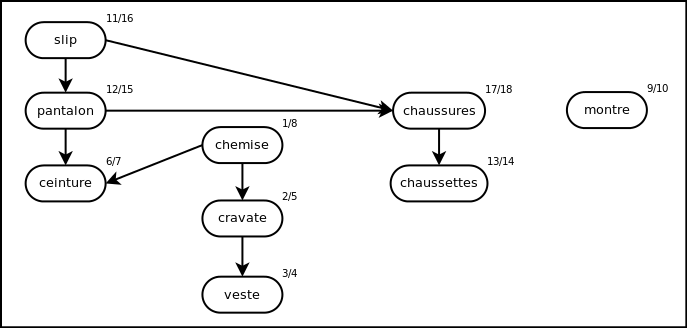
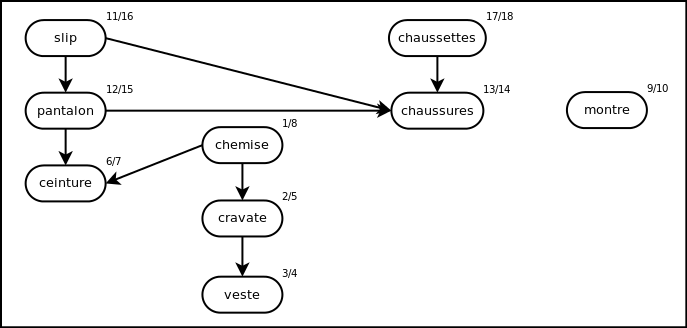
Fix topological sort graph and other typos. Added skeleton templates for datastore pics, shortest path and cypher/gremlin definition

diff --git a/prez/index.html b/prez/index.html
@@ -28,6 +28,11 @@
 	<!-- Transition theme. More available in /themes/transition/ or create your own. -->
 	<link rel="stylesheet" href="css/transition/horizontal-slide.css">
 	<link rel="stylesheet" href="extensions/codemirror/themes/default.css"/>
+
+	<style>
+		dt { font-size:18pt !important; margin:10px 0 !important;}
+		dd { font-style:italic; text-indent:30px; margin-bottom:15px !important;}
+	</style>
 </head>
 <body class="deck-container">
 
@@ -60,12 +65,17 @@
 	</section>
 
 	<section class="slide" id="minute-pub-lt">
-		<h2>Et Lateral Thought ?</h2>
+		<h2>Et Lateral Thoughts ?</h2>
 		<div style="overflow:auto;">
 			<img style="display:block; float:left;" src="img/lt-logo.png" />
-			<p style="width:50%; float:left; margin-left:40px; line-height:42px;">Société d'informatique composée de développeurs passionnés qui apportent leur expertise à tous ceux qui le souhaite :)</p>
+			<p style="width:50%; float:left; margin-left:40px; line-height:42px;">Société d'informatique composée de développeurs passionnés qui apportent leur expertise à tous ceux qui le souhaitent :)</p>
 		</div>
-		<p>* Innovante dans le sens ou la société est composée uniquement de développeurs et que ... ça marche très bien comme ça.</p>
+		<h3>En quelques mots</h3>
+		<ul>
+			<li>Innovante : la société est composée uniquement de développeurs</li>
+			<li>Transparente : chacun a le même poids de décision et accès aux mêmes informations</li>
+			<li>Fun : projets communs, time-off ...</li>
+		</ul>
 	</section>
 
 	<section class="slide" id="plan">
@@ -81,7 +91,7 @@
 				<h3>Neo4J</h3>
 			</li>
 			<li>
-				<h3>Utilisation sur l'existant</h3>
+				<h3>Cohabitation avec l'existant</h3>
 			</li>
 		</ol>
 	</section>
@@ -92,12 +102,12 @@
 
 	<section class="slide" id="nosql-wut">
 		<h2>NOSQL ? ça sonne un peu comme ça...</h2>
-		<img src="img/Web_2.0_Map.svg"/>
+		<img style="border:2px solid black;" src="img/Web_2.0_Map.svg"/>
 	</section>
 
 	<section class="slide" id="nosql-geekandpoke">
 		<h2>...ou comme ça</h2>
-		<img style="height:600px; width:auto;" src="img/geek_and_poke.jpg"/>
+		<img style="height:600px; width:auto; border:2px solid black;" src="img/geek_and_poke.jpg"/>
 	</section>
 
 	<section class="slide" id="nosql-def">
@@ -119,7 +129,7 @@
 		<p>Le modèle relationnel a éte défini par <a href="http://www.seas.upenn.edu/~zives/03f/cis550/codd.pdf">Edgar Codd</a> il y a 40 ans ...</p>
 		<img style="display:block;" src="img/relational.png" />
 		<img style="display:block; border:2px solid black;" src="img/relational_details.png" />
-		<p>... et il domine toujours.</p>
+		<p>... et il domine toujours (ORM mon amour).</p>
 	</section>
 
 	<section class="slide" id="relationnel-gagne">
@@ -133,7 +143,7 @@
 		</ul>
 	</section>
 
-	<section class="slide" id="relationnel-rappels">
+	<section class="slide" id="relationnel-rappels-acid">
 		<h2>ACID ?</h2>
 		<dl>
 			<dt><strong>A</strong>tomicity</dt>
@@ -147,18 +157,18 @@
 		</dl>
 	</section>
 
-	<section class="slide" id="relationnel-rappels">
+	<section class="slide" id="relationnel-rappels-sharding">
 		<h2>Sharding ?</h2>
-		<p>Partitionnement horizontal des données, i.e. par lignes plutôt que par colonne.</p>
-		<p><img src="img/sharding.png"/></p>
+		<p>Partitionnement horizontal des données, i.e. par lignes plutôt que par colonne, sur un critère donné.</p>
+		<p style="margin-top:40px;"><img style="border:2px solid black;" src="img/sharding.png"/></p>
 	</section>
 
-	<section class="slide" id="relationnel-rappels">
+	<section class="slide" id="relationnel-rappels-cap">
 		<h2>Théorème de CAP ?</h2>
-		<img style="height:600px; width:auto;" src="img/cap.jpg"/>
+		<img style="height:600px; width:auto; border:2px solid black;" src="img/cap.jpg"/>
 	</section>
 
-	<section class="slide" id="relationnel-gagne">
+	<section class="slide" id="relationnel-gagne-bis">
 		<h2>L'hégémonie relationnelle (on reprend)</h2>
 		<p>... et il a ses limites :</p>
 		<ul>
@@ -170,9 +180,9 @@
 	</section>
 
 	<section class="slide" id="conclusion-relationnel">
-		<h2>Conclusion ?</h2>
-		<p>On a beaucoup progressé pour monter en charge avec nos applications, beaucoup moins avec les systèmes persistant les données qu'elles manipulent !</p> 
-		<p class="small">Indice : on peut faire mieux ;)</p>
+		<h2 style="margin-top:200px; text-align:center;">Conclusion ?</h2>
+		<p>On a beaucoup progressé pour faire monter en charge et répliquer nos applications, beaucoup moins avec les systèmes persistant les données qu'elles manipulent !</p> 
+		<p><strong>Indice : on peut faire mieux ;)</strong></p>
 	</section>
 
 	<section class="slide" id="back-to-the-future">
@@ -182,8 +192,7 @@
 	<section class="slide" id="nosql-type">
 		<h2>La famille NOSQL</h2>
 		<ul style="float:left">
-			<li>
-				Key-Value Store :
+			<li>Key-Value Store :
 				<ul>
 					<li>Redis</li>
 					<li>BerkeleyDB</li>
@@ -202,6 +211,7 @@
 				<ul>
 					<li>Cassandra</li>
 					<li>RIAK</li>
+					<li>BigTable</li>
 				</ul>
 			</li>
 			<li>les versatiles :
@@ -213,6 +223,17 @@
 		</ul>
 		<div style="clear:both">&nbsp;</div>
 		<p>Bien sûr il n'y a ici que les principaux acteurs du genre.</p>
+	</section>
+
+	<section class="slide" id="nosql-tour">
+		<h2>Key/Value</h2>
+		<p>IMG KEY/VALUE</p>
+
+		<h2>Document</h2>
+		<p>IMG DOCUMENT</p>
+
+		<h2>Column</h2>
+		<p>IMG Column</p>
 	</section>
 	
 	<section class="slide" id="nosql-enfin">
@@ -246,7 +267,7 @@
 
 	<section class="slide" id="nosql-avenir">
 		<h2>Et si on s'orientait vers ça ?</h2>
-		<img src="img/polyglot_bdd.png"/>
+		<img style="display:block; margin-top:80px;" src="img/polyglot_bdd.png"/>
 	</section>
 
 	<section class="slide" id="les-graphes">
@@ -255,7 +276,7 @@
 
 	<section class="slide" id="graphe-minimal">
 		<h2>Le graphe le plus simple du monde</h2>
-		<img src="img/simplest_graph.png"/>
+		<img style="display:block; margin-top:80px;" src="img/simplest_graph.png"/>
 	</section>
 
 	<section class="slide" id="graphe-avec-relations">
@@ -266,20 +287,20 @@
 	<section class="slide" id="representations-de-graphe">
 		<h2>Autres modes de représentations</h2>
 		<p>Sous forme de matrice d'adjacence : </p>
-		<img src="img/matrice_adjacence.jpg"/>
+		<img style="border:2px solid black;" src="img/matrice_adjacence.jpg"/>
 	</section>
 
 	<section class="slide" id="representations-de-graphe2">
 		<h2>Autres modes de représentations</h2>
-		<p>Sous forme de liste d'adjacence : <i>tableau de liste de sommet</i></p>
-		<img src="img/liste_adj.jpg"/>
+		<p>Sous forme de liste d'adjacence : <em>tableau de liste de sommets</em></p>
+		<img style="border:2px solid black;" src="img/liste_adj.jpg"/>
 	</section>
 
 
 	<section class="slide" id="recherche-graphe">
 		<h2>Recherche sur graphe (I/III)</h2>
 		<h3>Breadth-first search</h3>
-		<img style="display:block" src="img/breadth_first_search.gif"/>
+		<img style="display:block; border:2px solid black;" src="img/breadth_first_search.gif" width="400px"/>
 		<p>Propriétés intéressantes:</p>		
 		<ul>
 			<li>Complexité: O(n) où n=somme du nombre de <em>vertices</em> et d'<em>egdes</em></li>
@@ -290,7 +311,7 @@
 	<section class="slide" id="recherche-de-graphe2">
 		<h2>Recherche sur graphe (II/III)</h2>
 		<h3>Depth-first search</h3>
-		<img style="display:block" src="img/depth_first_search.gif"/>
+		<img style="display:block; border:2px solid black;" src="img/depth_first_search.gif" width="400px"/>
 		<p>Propriétés intéressantes:</p>		
 		<ul>
 			<li>Classification des <em>edges<em>:
@@ -307,16 +328,21 @@
 
 	<section class="slide" id="recherche-de-graphe3">
 		<h2>Recherche sur graphe (III/III)</h2>
-		<h3>Tri topologique avec une depth-first search <span class="small">(très fortement inspiré de la figure 22.7 de "Introduction to Algorithms", chapitre 22.4)</span></h3>
-		<p>Avant:</p>
+		<h3>Tri topologique avec une depth-first search <span style="font-size:9pt">(très fortement inspiré de la figure 22.7 de "Introduction to Algorithms", chapitre 22.4)</span></h3>
+		<h4>Avant</h4>
 		<img style="display:block" src="img/topological_sort_before.png"/>
-		<p>Après:</p>
+		<h4>Après</h4>
 		<img style="display:block" src="img/topological_sort_after.png"/>
 		<p>Note: cela ne fonctionne qu'avec des graphes acycliques orientés.</p>
 	</section>
+
+	<section class="slide" id="plus-court-chemin">
+		<h2>Recherche du plus court chemin</h2>
+		<p>TODO</p>
+	</section>
 	
 	<section class="slide" id="concepts-basics">
-		<h2>Concepts I &middot; 3 choses à retenir</h2>
+		<h2>Concepts I &middot; 3 fondamentaux à retenir</h2>
 		<ul style="float:left">
 			<li class="slide">
 				<h3>Noeud <small>(vertex, node)</small></h3>
@@ -340,29 +366,29 @@
 		<h1>Présentation de Neo4J</h1>
 	</section>
 	
-	<section class="slide" id="mais-pourquoi-faire">
-		<h2>Pourquoi Neo4J ?</h2>
-		<ul>
-			<li><h3>Base de données écrite en Java</h3></li>
-			<li><h3>Projet(s) <a href="https://github.com/neo4j/">open-source</a> (licence <a href="http://en.wikipedia.org/wiki/Affero_General_Public_License">AGPL</a>)</h3></li>
-			<li><h3>Supportée commercialement par <a href="http://neotechnology.com/">Neo Technology</a></h3></li>
-			<li><h3>Rapprochement récent de SpringSource</h3></li>
-		</ul>
-		<h2>Roadmap</h2>
-		<ul>
-			<li><h3>Version stable: 1.7.2</h3></li>
-			<li><h3>1.8 dans les cartons</h3></li>
-		</ul>
-	</section>
-	
 	<section class="slide" id="mais-pourquoi-faire-bis">
 		<h2>BDD orientée graphe ?</h2>
 		<ul>
-			<li><h3>Données fortement inter-connectées</h3></li>
-			<li><h3>Les Graphes représentent bien un modèle Objet</h3></li>
-			<li><h3>Est plus facilement scalable qu'un SGBDR, pas de jointures coûteuses</h3></li>
-			<li><h3>Modèle rempli d'algorithmes efficaces <br/>et bien connus en Recherche Opérationnelle</h3></li>
-			<li><h3>Flexible et souvent Schema-Less</h3></li>
+			<li>Données fortement inter-connectées</li>
+			<li>Les Graphes représentent bien un modèle Objet</li>
+			<li>Est plus facilement scalable qu'un SGBDR, pas de jointures coûteuses</li>
+			<li>Modèle rempli d'algorithmes efficaces <br/>et bien connus en Recherche Opérationnelle</h3></li>
+			<li>Flexible et souvent Schema-Less</li>
+		</ul>
+	</section>
+	
+	<section class="slide" id="mais-pourquoi-faire">
+		<h2>Pourquoi Neo4J ?</h2>
+		<ul>
+			<li>Base de données écrite en Java</li>
+			<li>Projet(s) <a href="https://github.com/neo4j/">open-source</a> (licence <a href="http://en.wikipedia.org/wiki/Affero_General_Public_License">AGPL</a>)</li>
+			<li>Supportée commercialement par <a href="http://neotechnology.com/">Neo Technology</a></li>
+			<li>Rapprochement récent de SpringSource (filiale de VMWare)</li>
+		</ul>
+		<h2>Roadmap</h2>
+		<ul>
+			<li>Version stable: 1.7.2</li>
+			<li>1.8 dans les cartons</li>
 		</ul>
 	</section>
 	
@@ -407,7 +433,6 @@ for (Node node : traverser.getAllNodes()) {
 	System.out.println(node.getProperty("name"));
 }
 		</textarea>
-		<p>Possibilités d'utiliser des DSL comme Cypher ou Gremlin...</p>
 	</section>
 	
 	<section class="slide" id="concepts-end">
@@ -425,6 +450,11 @@ transaction.success();
 		</textarea>
 		<p>Les index supportent également le pseudo-requêtage sur les valeurs indexées (ex: <code>index.query("key","*e*")</code>).</p>
 	</section>
+
+	<section class="slide" id="requetage">
+		<h2>Requêtage</h2>
+		<p>TODO Cypher/Gremlin</p>
+	</section>
 	
 	<section class="slide" id="presentation-de-springdata">
 		<h1>Présentation de SpringData</h1>
@@ -432,14 +462,14 @@ transaction.success();
 	
 	<section class="slide" id="spring">
 		<h2>L'écosystème Spring</h2>
-		<img src="img/spring-logo.png" />
-		<p>Spring est à la base un framework d'injection de dépendance simplifiant les développements et la testabilité des projets Java/JEE</p>
+		<img style="display:block; margin:50px auto;" src="img/spring-logo.png" />
+		<p>Spring est à la base un framework d'injection de dépendance (appelé maintenant Spring Core) simplifiant les développements et la testabilité des projets Java/JEE.</p>
 		</div>
-		<p>L'écosystème s'est aggrandi au delà de l'injection de dépendance pour compter :</p>
+		<p>L'écosystème s'est agrandi bien au-delà de l'injection de dépendance pour compter :</p>
 		<ul>
 			<li>Spring Security</li>
 			<li>Spring Batch</li>
-			<li>Spring Social</li>
+			<li>Spring MVC</li>
 			<li>...</li>
 			<li><strong>et aussi SpringData qui nous intéresse aujourd'hui</strong></li>
 		</ul>
@@ -448,15 +478,15 @@ transaction.success();
 	<section class="slide" id="famille-springdata">
 		<h2><a href="http://www.springsource.org/spring-data">SpringData/*</a></h2>
 		<div style="overflow:auto;">
-			<img style="display:block; float:left;" src="img/Project_Data.png" />
-			<p style="width:50%; float:left; margin-left:40px; line-height:42px;">Projet ombrelle visant à faciliter l'intégration de la couche d'accès aux données aux applications se reposant sur le framework Spring d'injection de dépendances.</p>
+			<img style="display:block; float:left;" src="img/Project_Data.png" width="250px" />
+			<p style="width:50%; float:left; margin-left:40px; line-height:42px;">Projet ombrelle visant à faciliter l'intégration de la couche d'accès aux données aux applications se reposant sur Spring Core.</p>
 		</div>
-		<p>Parmi ses membres, on retrouve :</p>
+		<h3>Quelques projets existants</h3>
 		<ul>
 			<li>SpringData/JPA</li>
 			<li>SpringData/MongoDb</li>
 			<li>SpringData/Redis</li>
-			<li>SpringData/Neo4J</li>
+			<li>SpringData/<strong>Neo4J</strong></li>
 		</ul>
 	</section>
 	
@@ -568,23 +598,22 @@ public interface PersonRepository extends GraphRepository<Person> {
 		</ul>
 	</section>
 	
-	<section class="slide" id="devinlove">
-		<h1>DevInLove!</h1>
+	<section class="slide" id="genea">
+		<h1>Arbre généalogique</h1>
 	</section>
-	<section class="slide" id="devinlove-concept">
-		<h2>Concept :</h2>
-		<p> Vous permettre de trouver l'âme soeur programmatiquement en se basant :
-			<ul>
-				<li>Sur vos mascottes préférées : <strong>Tux, Django Poney, elePHPant</strong></li>
-				<li>Vos outils favoris : IntelliJIDEA, Eclipse, Git, CVS...</li>
-				<li>etc...</li>
-			</ul>
-		</p>
-		<img src="img/graph.png" alt="" width="90%" />
+	<section class="slide" id="genea-concept">
+		<h2>But</h2>
+		<ul>
+			<li>réaliser l'import du graphe</li>
+			<li>visualiser le graphe</li>
+			<li>le requêter</li>
+		</ul>
+		<h1>TODO</h1>
+		<img src="img/arbre.png" alt="TODO" />
  	</section>
 	
 	<section class="slide" id="neo4j-et-existant">
-		<h1>Utilisation sur l'existant</h1>
+		<h1>Cohabitation avec l'existant</h1>
 	</section>
 	
 	<section class="slide" id="neo4j-entities-partielles">
@@ -592,7 +621,7 @@ public interface PersonRepository extends GraphRepository<Person> {
 		<p>
 		Permet de partager la persistence d'une entité entre Neo4J et un autre store.
 		</p>
-		<h3>Exemple <small>(tiré de &ldquo;Good Relationships, The Spring Data Neo4j Guide Book&rdquo;)</small></h3>
+		<h3>Exemple <span style="font-size:9pt;">(tiré de &ldquo;Good Relationships, The Spring Data Neo4j Guide Book&rdquo;)</span></h3>
 		<textarea class="code" mode="text/x-java" style="display: none;">
 @Entity
 @Table(name = "user_account")
@@ -635,9 +664,9 @@ public class UserAccount {
 	<a href="#" class="deck-next-link" title="Next">&#8594;</a>
 
 	<!-- deck.status snippet -->
-	<p class="deck-status">
-		<span class="deck-status-current"></span> / <span
-			class="deck-status-total"></span>
+	<p class="deck-status" style="font-size:12pt;">
+		<strong><span class="deck-status-current"></span> / <span
+			class="deck-status-total"></span></strong>
 	</p>
 
 	<!-- deck.goto snippet -->
